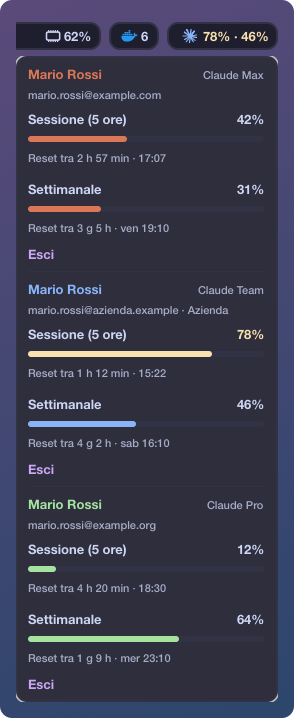
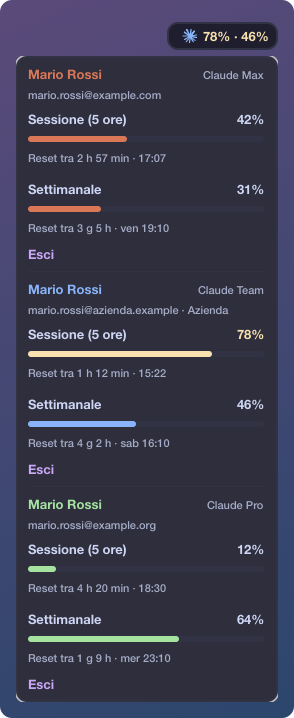
fix(screenshots): capture only the SketchyBar windows in the rects on macOS 26
SCContentFilter(display:including:) with some of SketchyBar's windows
takes in all of its windows on the display on macOS 26, so a popup wider
than its item brought in the bar items next to it. Filter SketchyBar's
app excepting its windows outside the rects instead, and re-take
docker.png and claude_all.png with it.

Changed region(s): [[0.0306, 0.0306, 0.551, 0.0919]]

diff --git a/screenshots/capture.swift b/screenshots/capture.swift
@@ -9,7 +9,9 @@
 //                       others are left out, and the first one grows to take in the popup. In the
 //                       pixels of the display: 2 per point on a Retina one
 // SketchyBar draws each item, bracket and popup row in a window of its own: only those in the rects
-// and those of the popup are captured, not the items next to them that a wide popup would take in
+// and those of the popup are captured, not the items next to them that a wide popup would take in.
+// The filter is SketchyBar without its other windows: on macOS 26 one with only some windows of an
+// app takes in all the windows of that app on the display
 // ScreenCaptureKit needs the Screen Recording permission of the app that runs this, e.g. Terminal
 // take.sh compiles it with: swiftc -O capture.swift -o capture
 
@@ -68,7 +70,10 @@ if popup {
   }
 }
 
-let filter = SCContentFilter(display: display, including: included)
+let ids = Set(included.map(\.windowID))
+let filter = SCContentFilter(display: display,
+                             including: content.applications.filter { $0.applicationName == "sketchybar" },
+                             exceptingWindows: windows.filter { !ids.contains($0.windowID) })
 let scale = CGFloat(filter.pointPixelScale)
 var images: [CGImage] = []
 for rect in rects {
